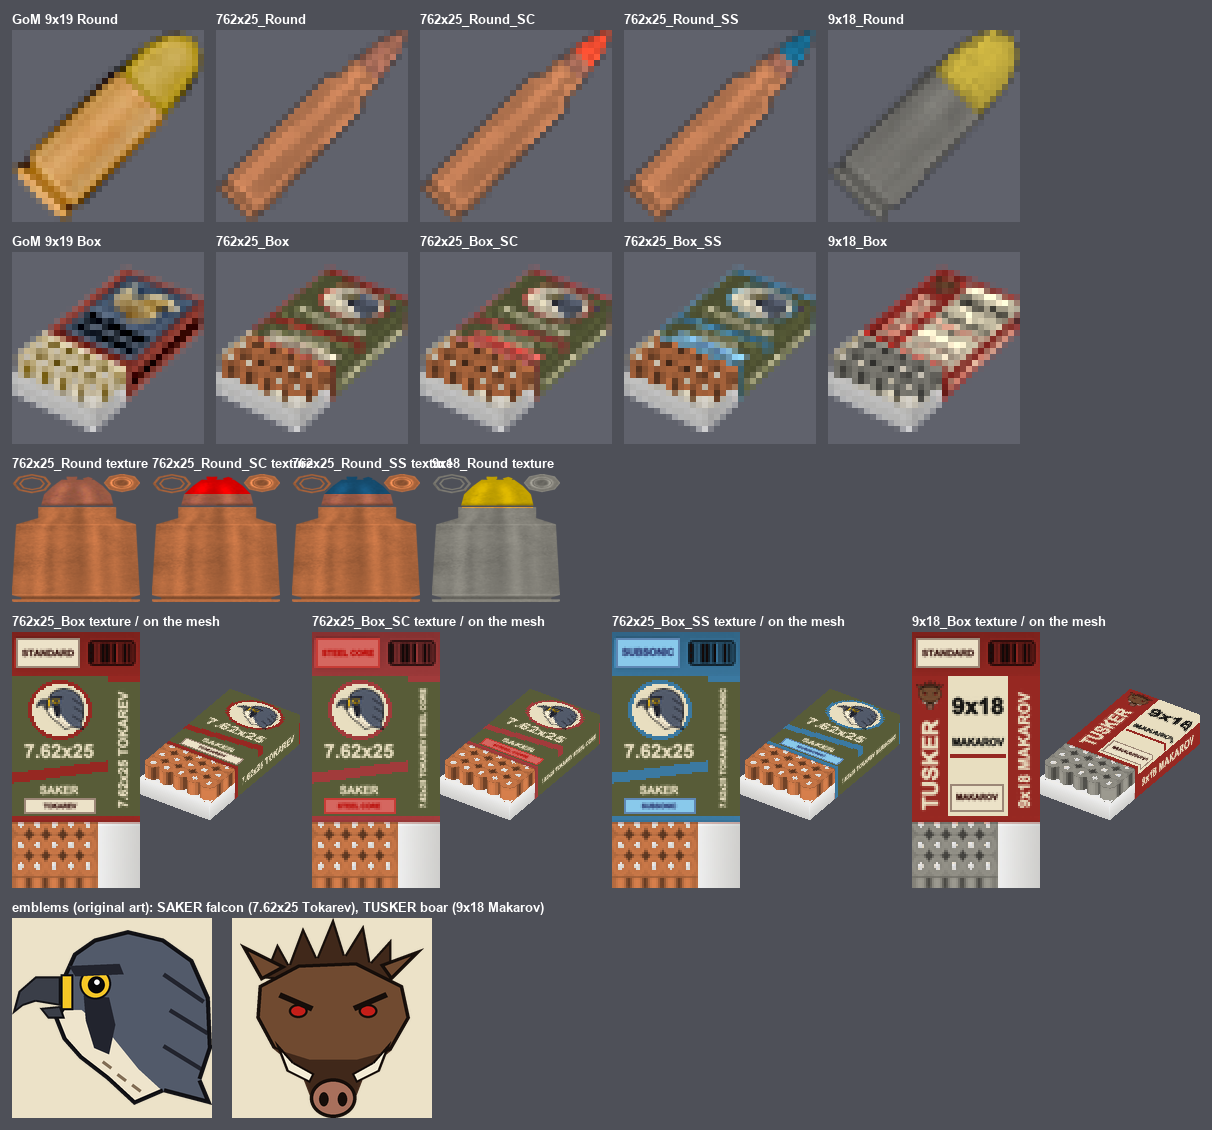
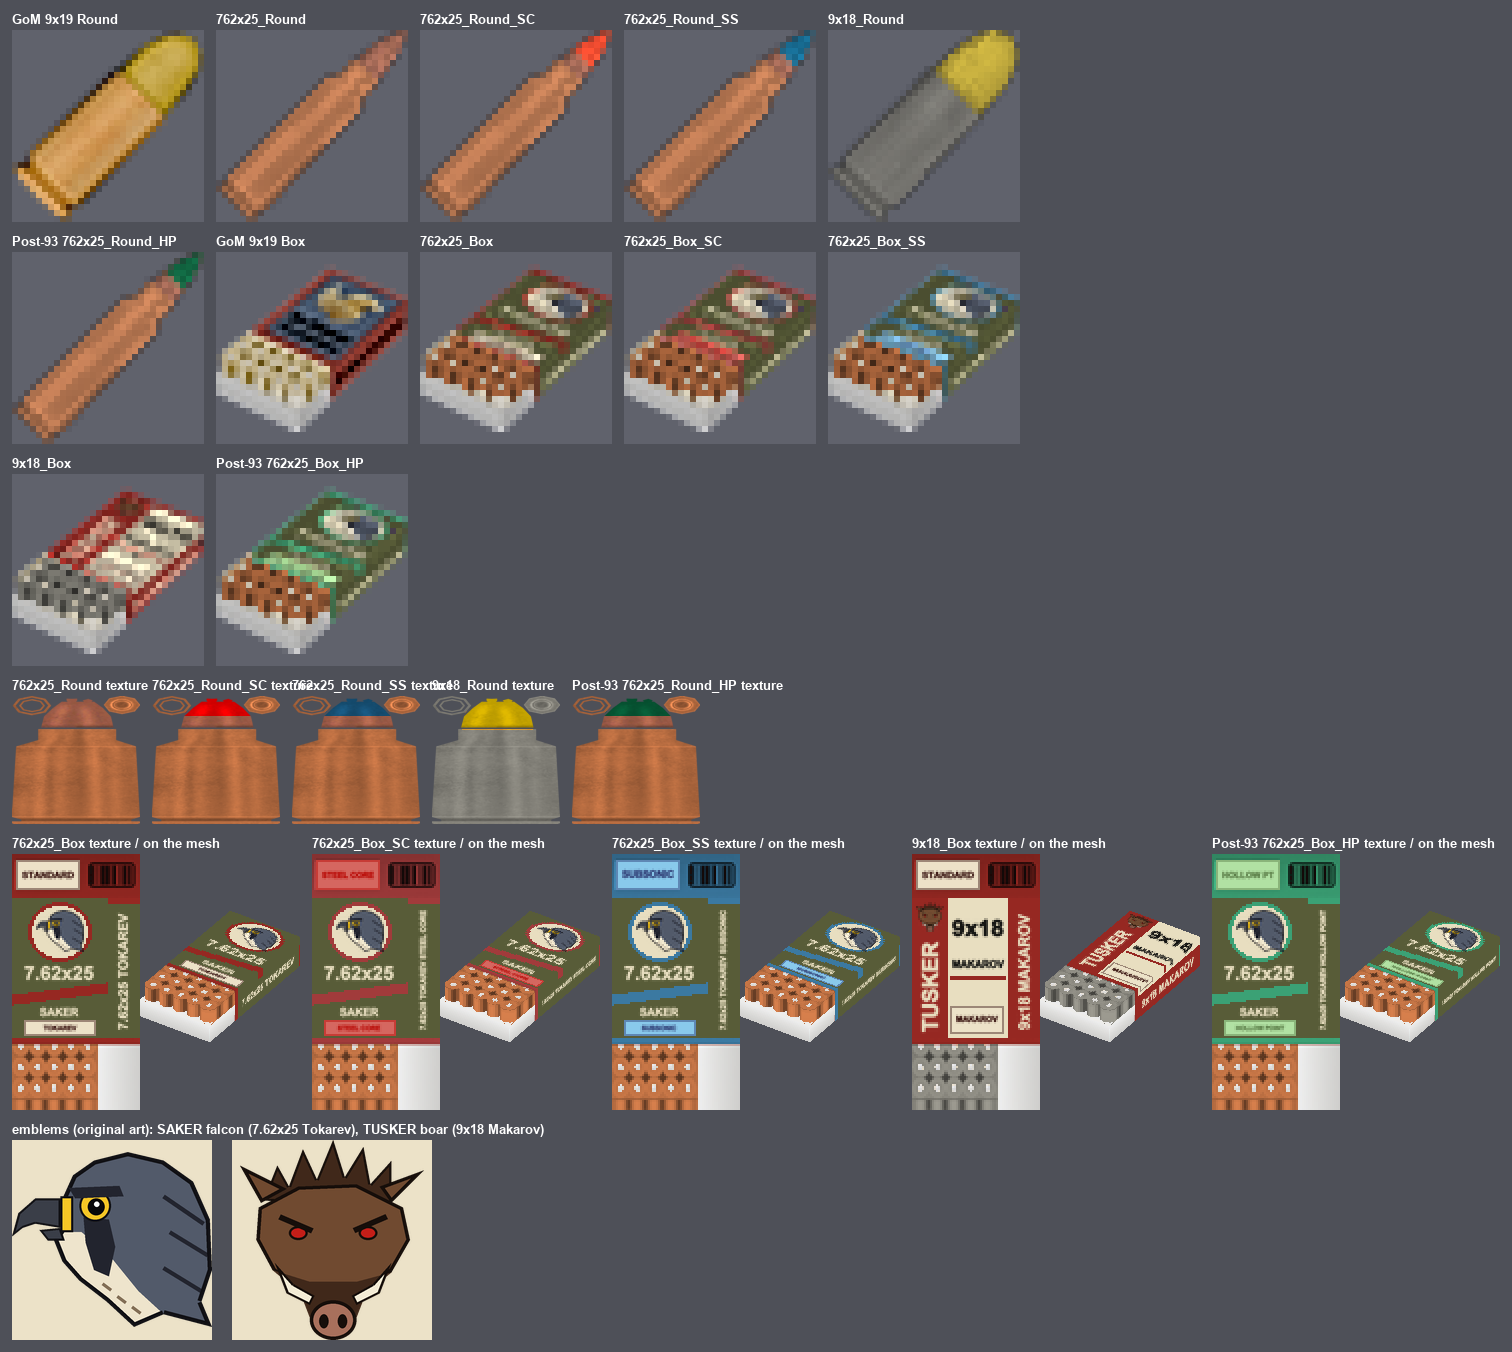
Post-93: 7.62x25mm Tokarev Hollow Point
The main mod's Tokarev got no hollow point because no pre-1993 date was
found; it belongs in the Post-93 add-on instead.

- GunsOfTienPost93.762x25_Bullet_HollowPoint with box, carton and crate,
  appended to the main mod's 7.62x25mm Gunworks family.
- Stats as the 9x19 / .45 hollow points (damage x1.2, crit damage x1.15,
  crit chance x1.05), no piercing.
- Ammo Maker type 762x25TokHP, Hot Brass 5.7x28 casing, round tooltip.
- Round and SAKER box art from make_762x25_9x18_art.py in GoM's hollow
  point green.
- README, forum post, change note, mod.info and notes updated.

diff --git a/scripts/make_762x25_9x18_art.py b/scripts/make_762x25_9x18_art.py
@@ -23,6 +23,8 @@ made-up maker and a fierce animal as GoM's own brand boxes (user, 2026-11-25, ap
   * 9x18 "TUSKER": a cream face with a tall panel down the left in the load's colour holding a boar's head with its
     tusks (draw_boar, original art) and the maker's name up it, a huge black "9x18", "MAKAROV", the load on a
     label; the long side in the panel's colour.
+Post-93 (user, 2026-11-25: "Then include them in post 1993"): the Tokarev hollow point, GunsOfTienPost93_762x25_*_HP
+in the add-on's textures, GoM's hollow point tip paint on the same round and SAKER box (POST93_TOKAREV).
 No real makers' names or marks (Brown Bear, Golden Tiger, Wolf, Barnaul, Tula are real brands, so neither a bear nor
 a tiger nor a wolf is used, and no maker's name).
 
@@ -45,6 +47,7 @@ import make_ammo_art as M  # noqa: E402
 
 ROOT = os.path.normpath(os.path.join(HERE, ".."))
 OUT = os.path.join(ROOT, "Contents/mods/GoMExtensionGunsOfTien/42/media/textures")
+OUT_POST93 = os.path.join(ROOT, "Contents/mods/GoMExtensionGunsOfTienPost93/42/media/textures")
 SHEET = os.path.join(ROOT, "docs/762x25_9x18_art_sheet.png")
 
 TOMBAC = (176, 104, 62)             # copper-alloy clad steel case (Soviet 57-N-134)
@@ -219,6 +222,11 @@ TOKAREV = [("", None, "TOKAREV", "", "STANDARD", RED),
            ("_SC", "AP", "STEEL CORE", "STEEL CORE", "STEEL CORE", None),
            ("_SS", "SS", "SUBSONIC", "SUBSONIC", "SUBSONIC", None)]
 MAKAROV = [("", None, "MAKAROV", "", "STANDARD", RED)]
+# the Post-93 add-on's Tokarev load (gen_post93_ammo.py ROUNDS): no hollow point dated before 1993
+POST93_TOKAREV = [("_HP", "HP", "HOLLOW POINT", "HOLLOW POINT", "HOLLOW PT", None)]
+# (mod prefix, textures folder, calibre, loads)
+SETS = [("GunsOfTien", OUT, "762x25", TOKAREV), ("GunsOfTien", OUT, "9x18", MAKAROV),
+        ("GunsOfTienPost93", OUT_POST93, "762x25", POST93_TOKAREV)]
 GOM_RED = (161, 67, 59)
 
 
@@ -226,15 +234,16 @@ def build():
     written = []
     tok_cam = M.ROUND_CAMERA
     mak_cam = A.CAMERAS["item_9x19_Round_Base.png"]
-    for cal, geometry, texture, case, ref, cam, loads, layout in (
-            ("762x25", "57x28_Round", "Nato_Round_Base", TOMBAC, "556", tok_cam, TOKAREV, layout_762x25),
-            ("9x18", "9x19_Round", "Pistol_Standard_Round_Base", CLAD_STEEL, "9x19", mak_cam, MAKAROV, layout_9x18)):
+    looks = {"762x25": ("57x28_Round", "Nato_Round_Base", TOMBAC, "556", tok_cam, layout_762x25),
+             "9x18": ("9x19_Round", "Pistol_Standard_Round_Base", CLAD_STEEL, "9x19", mak_cam, layout_9x18)}
+    for prefix, out, cal, loads in SETS:
+        geometry, texture, case, ref, cam, layout = looks[cal]
         for art, scheme, label, side, sticker, colour in loads:
             tip = M.gom(scheme)["tip"] if scheme else None
-            rnd, box = "GunsOfTien_%s_Round%s" % (cal, art), "GunsOfTien_%s_Box%s" % (cal, art)
+            rnd, box = "%s_%s_Round%s" % (prefix, cal, art), "%s_%s_Box%s" % (prefix, cal, art)
             icon, world = make_round(geometry, texture, case, tip, ref, cam)
-            written += [(save(icon, os.path.join(OUT, "item_%s.png" % rnd)), "render of %s" % geometry),
-                        (save(world, os.path.join(OUT, "worlditems/GunsOfTien/Rounds", rnd + ".png")),
+            written += [(save(icon, os.path.join(out, "item_%s.png" % rnd)), "render of %s" % geometry),
+                        (save(world, os.path.join(out, "worlditems", prefix, "Rounds", rnd + ".png")),
                          "%s.png, case %s, tip %s" % (texture, case, tip))]
             sch = M.gom(scheme) if scheme else None
             outer = colour or A.set_hue(GOM_RED, A.hue_of(tip)[0])
@@ -243,8 +252,8 @@ def build():
                         load=label, sticker=sticker, side=side or "",
                         note="layout_%s in %s" % (cal, label.lower()))
             icon, world = M.make_box(spec, layout)
-            written += [(save(icon, os.path.join(OUT, "item_%s.png" % box)), M.BOX_ICON),
-                        (save(world, os.path.join(OUT, "worlditems/GunsOfTien/Boxes", box + ".png")),
+            written += [(save(icon, os.path.join(out, "item_%s.png" % box)), M.BOX_ICON),
+                        (save(world, os.path.join(out, "worlditems", prefix, "Boxes", box + ".png")),
                          "%s.png, %s" % (M.BOX_TEX, spec["note"]))]
     return written
 
@@ -259,14 +268,15 @@ def contact_sheet(path, scale=6):
     cell = 32 * scale
     pad, label_h = 12, 18
     font = ImageFont.truetype(A.FONT, 13)
-    names = [("762x25", a[0]) for a in TOKAREV] + [("9x18", a[0]) for a in MAKAROV]
-    rounds = ["GunsOfTien_%s_Round%s" % n for n in names]
-    boxes = ["GunsOfTien_%s_Box%s" % n for n in names]
-    ours = lambda n: Image.open(os.path.join(OUT, "item_%s.png" % n))
+    names = [(p, o, c, a[0]) for p, o, c, loads in SETS for a in loads]
+    rounds = [("%s_%s_Round%s" % (p, c, a), o, p) for p, o, c, a in names]
+    boxes = [("%s_%s_Box%s" % (p, c, a), o, p) for p, o, c, a in names]
+    ours = lambda n: Image.open(os.path.join(n[1], "item_%s.png" % n[0]))
+    short = lambda n: n[0].replace("GunsOfTienPost93_", "Post-93 ").replace("GunsOfTien_", "")
     icons = ([("GoM 9x19 Round", Image.open(os.path.join(A.GOM_TEX, "item_9x19_Round_Base.png")))]
-             + [(n.replace("GunsOfTien_", ""), ours(n)) for n in rounds]
+             + [(short(n), ours(n)) for n in rounds]
              + [("GoM 9x19 Box", Image.open(os.path.join(A.GOM_TEX, M.BOX_ICON)))]
-             + [(n.replace("GunsOfTien_", ""), ours(n)) for n in boxes])
+             + [(short(n), ours(n)) for n in boxes])
     per_row = 5
     rows = (len(icons) + per_row - 1) // per_row
     width = max(pad + per_row * (cell + pad), pad + len(boxes) * (128 + 160 + pad))
@@ -282,14 +292,14 @@ def contact_sheet(path, scale=6):
     y = pad + rows * (label_h + cell + pad)
     for i, n in enumerate(rounds):
         x = pad + i * (128 + pad)
-        d.text((x, y), n.replace("GunsOfTien_", "") + " texture", font=font, fill=(255, 255, 255, 255))
-        tex = Image.open(os.path.join(OUT, "worlditems/GunsOfTien/Rounds", n + ".png"))
+        d.text((x, y), short(n) + " texture", font=font, fill=(255, 255, 255, 255))
+        tex = Image.open(os.path.join(n[1], "worlditems", n[2], "Rounds", n[0] + ".png"))
         sheet.alpha_composite(tex.convert("RGBA").resize((128, 128), Image.NEAREST), (x, y + label_h))
     y += label_h + 128 + pad
     for i, n in enumerate(boxes):
         x = pad + i * (128 + 160 + pad)
-        d.text((x, y), n.replace("GunsOfTien_", "") + " texture / on the mesh", font=font, fill=(255, 255, 255, 255))
-        tex = Image.open(os.path.join(OUT, "worlditems/GunsOfTien/Boxes", n + ".png"))
+        d.text((x, y), short(n) + " texture / on the mesh", font=font, fill=(255, 255, 255, 255))
+        tex = Image.open(os.path.join(n[1], "worlditems", n[2], "Boxes", n[0] + ".png"))
         sheet.alpha_composite(tex.convert("RGBA").resize((128, 256), Image.NEAREST), (x, y + label_h))
         sheet.alpha_composite(M.box_preview(tex, 5), (x + 128, y + label_h + 40))
     y += label_h + 256 + pad
@@ -305,7 +315,7 @@ def contact_sheet(path, scale=6):
 if __name__ == "__main__":
     for path, source in build():
         img = Image.open(path)
-        print("%-64s %dx%d %s  <- %s" % (os.path.relpath(path, OUT), img.width, img.height, img.mode, source))
+        print("%-72s %dx%d %s  <- %s" % (os.path.relpath(path, ROOT), img.width, img.height, img.mode, source))
     if "--sheet" in sys.argv:
         i = sys.argv.index("--sheet")
         target = sys.argv[i + 1] if len(sys.argv) > i + 1 else SHEET

diff --git a/scripts/post93/gen_post93_ammo.py b/scripts/post93/gen_post93_ammo.py
@@ -17,6 +17,9 @@ ART = 'GunsOfTienPost93_'
 CALIBRES = {
     '46x30': dict(name='4.6x30mm', weight='0.0046', mesh='46x30_Round'),
     '57x28': dict(name='5.7x28mm', weight='0.0042', mesh='57x28_Round'),
+    # the main mod's calibre (gen_scripts.py ammo_762x25_9x18: 10.6 g, GoM's 5.7x28 mesh at 0.0129); its hollow
+    # point is ours (user, 2026-11-25: "Then include them in post 1993", no date found for one before 1993)
+    '762x25': dict(name='7.62x25mm Tokarev', weight='0.0074', mesh='57x28_Round', scale='0.0129'),
 }
 ROUNDS_PER_BOX, BOXES_PER_CARTON, CARTONS_PER_CRATE = 50, 12, 4
 
@@ -42,6 +45,7 @@ ROUNDS = [
     ('46x30', '_Subsonic', 'SS', 'bullet_46x30_subsonic', 'Subsonic'),
     ('57x28', '_SB193', 'SB193', 'bullet_57x28_sb193', 'SB193'),
     ('57x28', '_SS197SR', 'SS197SR', 'bullet_57x28_ss197sr', 'SS197SR'),
+    ('762x25', '_HollowPoint', 'HP', 'bullet_762x25_hollow_point', 'Hollow Point'),
 ]
 
 # GoM's naming, a real load name followed by its use in parentheses (as GoM's 'MKI Suppressor (5.56mm Rifles)').
@@ -132,7 +136,7 @@ def models():
     model {n['round_art']} {{
         mesh    = Worlditems/Ammunition/Rounds|{c['mesh']},
         texture = worlditems/GunsOfTienPost93/Rounds/{n['round_art']},
-        scale   = 0.015,
+        scale   = {c.get('scale', '0.015')},
     }}
 
     model {n['box_art']} {{
@@ -250,6 +254,7 @@ AMMOMAKER_TYPES = [
     ('46x30SS', '4.6x30mm SS', '4.6x30mm SS sub sonic round - 2001'),
     ('57x28SS', '5.7x28mm SB193', '5.7x28mm SB193 sub sonic round - 1990s'),
     ('57x28SR', '5.7x28mm SS197SR', '5.7x28mm SS197SR polymer tip round - 2000s'),
+    ('762x25TokHP', '7.62x25mm Tokarev HP', '7.62x25mm Tokarev hollow point round'),
 ]
 
 

diff --git a/docs/claude_memory/MEMORY.md b/docs/claude_memory/MEMORY.md
@@ -1,11 +1,15 @@
 - [Gun sizes from the M16](gun-sizes-from-m16.md) — GoM gun scales are in docs/gom_gun_scale.md (branch models-resize), M16A2 = 0.603
 - [GoM animations only](generic-stances-not-per-gun.md) — GoT ships no anims; vanilla rifle/pistol hold + a GoM reload animId (bullpups: famas_rifle, ARs: ar15_rifle)
+- [GoT release previews](got-release-previews.md) — a release adding guns regenerates loot pages 33-37, and preview41 only if a new gun takes a suppressor
 - [Two or more guns per release](release-two-guns-minimum.md) — Guns of Tien updates always ship 2+ new guns; pair variants
 - [Follow GoM patterns](follow-gom-patterns.md) — GoT does things GoM's way through Gunworks' API; never wrap Gunworks, pass ... if forced
 - [Cartons/crates keep GoM art](carton-crate-art-stays-gom.md) — per-load stickers and calibre prints tried 2026-11-13, both rejected
 - [Original art for branding](no-game-art-as-branding.md) — GoT box logos/mascots are our own (fierce animal, made-up maker like GoM), never PZ UI/map symbols
 - [GoT: no option for gun rules](got-no-sandbox-options-for-gun-rules.md) — rules the gun decides (subsonic racking) ship without a sandbox option
 - [Build every real variant](build-every-real-variant.md) — two real versions of a gun = build both, don't ask which
-- [Gather many gun images first](gather-many-gun-references.md) — before modelling a gun, collect MANY reference photos from every angle; never model from one or two side views
+- [Gather many gun images first](gather-many-gun-references.md) — collect MANY photos from every angle, and cross-check any odd detail of the measuring photo against the others before modelling it
+- [Zomboid Fixes Java plan](zomboid-fixes-java-plan.md) — Java side built on pzopt's agent; pzopt layout, no server install yet
+- [Generated gun lines, no flavour](generated-gun-lines-no-flavour.md) — GoT gun/magazine tooltips only from GunLines.lua; never hand-write gun lines or add flavour
 - [Six remodel passes](three-remodel-passes.md) — a gun model's first pass is always ugly; do 6 part-by-part photo-vs-model passes (triggers first) before showing it; then check for holes, shine built as gaps, floating parts
 - [Variants must differ in play](variants-must-differ-in-play.md) — say what differs before building a second version; an invented "prototype" calibre is fine if named so
+- [Later loads go to Post-93](later-loads-go-to-post93.md) — GoT: a load with no pre-1993 date goes into Post-93, never dropped

diff --git a/CLAUDE.md b/CLAUDE.md
@@ -2310,6 +2310,16 @@ Vector Arms' bayonet lug rails). Post-93's guns all have integral rails on every
   Makarov: the plain round only (the standard 57-N-181S); every special load that could be dated is later (PMM
   57-N-181SM 1994, RG028, SP-7, SP-8, 7N25), so Post-93 material, with the PP-9 Klin. Ammo Maker: `762x25TokAP`
   (its BulletHandgunSAP), `762x25TokSS` (8 grains of 12).
+- **Tokarev Hollow Point in Post-93** (user, 2026-11-25, on hearing none was built for want of a pre-1993 date:
+  "Then include them in post 1993. What stopped you?"; my answer: I read "no date" as "leave it out" instead of
+  "Post-93"): `GunsOfTienPost93.762x25_Bullet_HollowPoint / _Box_ / _Carton_ / _Crate_` "7.62x25mm Tokarev Hollow
+  Point Round" ..., ammo id `gunsoftienpost93:bullet_762x25_hollow_point`, added to the main mod's "7.62x25mm"
+  family by Post-93's Ammunition.lua with the 9x19 / .45 hollow points' numbers and no piercing; written by
+  gen_post93_ammo.py (calibre `762x25`, the main mod's weight and mesh scale); Ammo Maker `762x25TokHP` (its small
+  handgun hollow point bullet); Hot Brass the 5.7x28 casing; art from make_762x25_9x18_art.py (`POST93_TOKAREV`,
+  GoM's hollow point green on the same round and SAKER box, written into Post-93's textures). Never loot, as the
+  add-on's other special loads. Not played. The rule for later: a load with no date found before 1993 goes to
+  Post-93, it is not dropped.
 - **Loot: none yet** (decided overnight, to confirm): rounds for guns that do not exist would be clutter; they come
   with their guns' kits. Until then Ammo Maker makes them.
 - **Art** (`scripts/make_762x25_9x18_art.py`, sheet `docs/762x25_9x18_art_sheet.png`): rounds on GoM's meshes, the

diff --git a/docs/claude_memory/later-loads-go-to-post93.md b/docs/claude_memory/later-loads-go-to-post93.md
@@ -1,0 +1,22 @@
+---
+name: later-loads-go-to-post93
+description: "Guns of Tien — a real load (or gun) that fails the main mod's pre-1993 rule, or has no date found, goes into the Post-93 add-on; never drop it for lack of a date"
+metadata:
+  node_type: memory
+  type: feedback
+  originSessionId: daae315a-aa23-4de8-813a-33c1e7bbacd0
+  modified: 2026-11-25T06:21:37.114Z
+---
+
+When a round's special load (or anything else) cannot be shown to exist by 1993, build it in the Post-93 add-on
+(GoMExtensionGunsOfTienPost93) instead of leaving it out. The main mod's "real loads of 1993" rule decides **where**
+a thing goes, not **whether** it is made.
+
+**Why:** user, 2026-11-25, after learning the 7.62x25 Tokarev got no hollow point because no pre-1993 date was
+found: "Then include them in post 1993. What stopped you?" Built that day as
+`GunsOfTienPost93.762x25_Bullet_HollowPoint` (Post-93 appends a load to a main-mod calibre's Gunworks family, as
+it already did with the 5.7x28 SB193 / SS197SR).
+
+**How to apply:** when planning a calibre's loads, list the later ones too and put them in Post-93 in the same
+release, or say plainly they are deferred and why. Open case: the 9x18 Makarov's later loads (PMM 1994 and the
+others) were noted as "Post-93 material, with the PP-9 Klin" and not built.

diff --git a/README.md b/README.md
@@ -304,6 +304,7 @@ Enable *GoM Extension: Guns of Tien - Post-93* as well.
 - A-91M 54 Prototype, a battle rifle on the first A-91M's body with the 40mm grenade launcher over the barrel: 7.62x54mmR (a chambering the real gun never had) on the SV-98's magazines, its 10 and a 20-round one made for this rifle, a longer and heavier barrel, automatic or single shots at 600 rounds a minute, two grips joined by a frame, the launcher's own trigger under the muzzle and its sight leaf raised while the launcher is in use; Guns of Marz's rail on the carrying handle for optics, no muzzle parts
 - 4.6x30mm DM11, Subsonic
 - 5.7x28mm SS190, SB193 (Subsonic), SS197SR (Hollow Point)
+- 7.62x25mm Tokarev Hollow Point, a later load for the main mod's Tokarev round
 
 ### Where Post-93's guns are found
 
